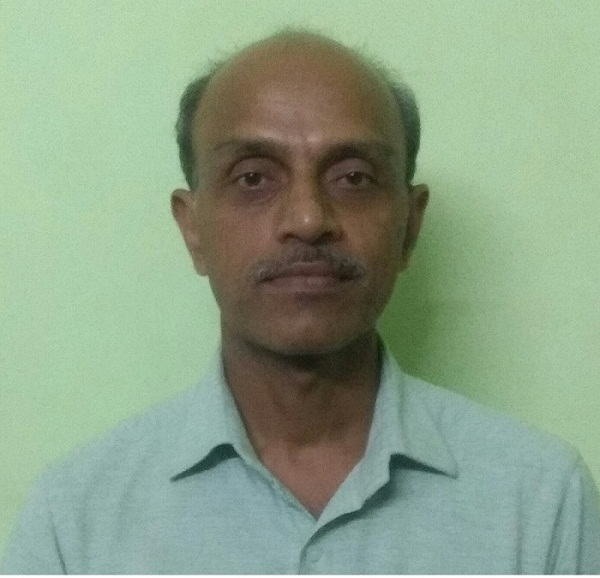
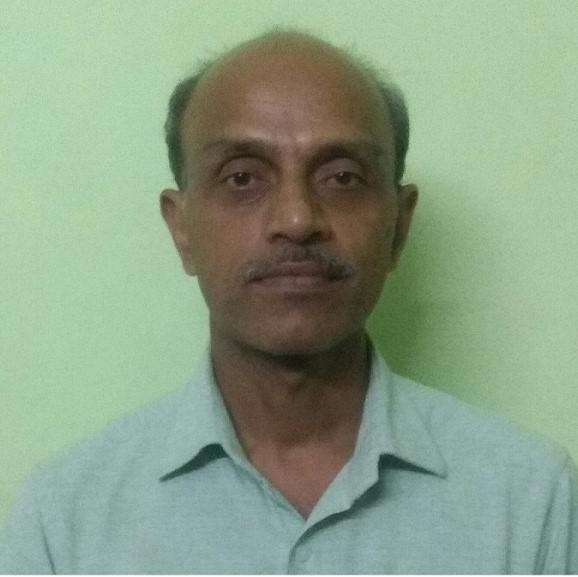
add advisors

diff --git a/index.html b/index.html
@@ -432,13 +432,83 @@
       </section>
       <!-- End Portfolio Section -->
 
-      <!-- ======= Team Section ======= -->
+      <!-- ======= Advisors Section ======= -->
       <section id="team" class="team">
         <div class="container">
           <div class="section-title">
             <!-- <h2>Team</h2> -->
+            <h3>Our <span>Advisory Committee</span></h3>
+            <!-- <p>Take a look at ISTE GCEK Executive Commitee 2020-21.</p> -->
+          </div>
+
+          <div class="members">
+            <div class="member" data-aos="zoom-in">
+              <div class="member-img">
+                <img
+                  src="assets/img/team/advisors/jayee.jpg"
+                  class="img-fluid"
+                  alt=""
+                />
+                <!-- <div class="social">
+                  <a href="https://www.linkedin.com/in/mehnaz-p-p-60492b1a9/"
+                    ><i class="bi bi-linkedin"></i
+                  ></a>
+                </div> -->
+              </div>
+              <div class="member-info">
+                <h4>Prof. Jayee K Varghese</h4>
+                <span>President</span>
+              </div>
+            </div>
+
+            <div class="member" data-aos="zoom-in">
+              <div class="member-img">
+                <img
+                  src="assets/img/team/advisors/asokan.jpg"
+                  class="img-fluid"
+                  alt=""
+                />
+                <!-- <div class="social">
+                  <a href="https://www.linkedin.com/in/mehnaz-p-p-60492b1a9/"
+                    ><i class="bi bi-linkedin"></i
+                  ></a>
+                </div> -->
+              </div>
+              <div class="member-info">
+                <h4>Prof. Asokan O V</h4>
+                <span>Secretary</span>
+              </div>
+            </div>
+
+            <div class="member" data-aos="zoom-in">
+              <div class="member-img">
+                <img
+                  src="assets/img/team/advisors/deepu.jpg"
+                  class="img-fluid"
+                  alt=""
+                />
+                <!-- <div class="social">
+                  <a href="https://www.linkedin.com/in/mehnaz-p-p-60492b1a9/"
+                    ><i class="bi bi-linkedin"></i
+                  ></a>
+                </div> -->
+              </div>
+              <div class="member-info">
+                <h4>Dr. Deepu SP</h4>
+                <span>Staff Advisor</span>
+              </div>
+            </div>
+          </div>
+        </div>
+      </section>
+
+      <!-- ======= Team Section ======= -->
+      <section id="" class="team">
+        <div class="container">
+          <div class="section-title">
+            <!-- <h2>Team</h2> -->
             <h3>Our <span>Board Members</span></h3>
-            <p>Take a look at ISTE GCEK Executive Commitee 2020-21.</p>
+            <!-- <p>Take a look at ISTE GCEK Executive Commitee 2020-21.</p> -->
           </div>
 
           <div class="members">
@@ -488,8 +558,7 @@
                   alt=""
                 />
                 <div class="social">
-                  <a
-                    href="https://www.linkedin.com/in/nithin-r-8730a716a/"
+                  <a href="https://www.linkedin.com/in/nithin-r-8730a716a/"
                     ><i class="bi bi-linkedin"></i
                   ></a>
                 </div>
@@ -519,8 +588,7 @@
               <div class="member-img">
                 <img src="assets/img/team/elbin.jpg" class="img-fluid" alt="" />
                 <div class="social">
-                  <a
-                    href="https://www.linkedin.com/in/elbin-manoj-9389111a9/"
+                  <a href="https://www.linkedin.com/in/elbin-manoj-9389111a9/"
                     ><i class="bi bi-linkedin"></i
                   ></a>
                 </div>
@@ -539,8 +607,7 @@
                   alt=""
                 />
                 <div class="social">
-                  <a
-                    href="https://www.linkedin.com/in/arshaddanish/"
+                  <a href="https://www.linkedin.com/in/arshaddanish/"
                     ><i class="bi bi-linkedin"></i
                   ></a>
                 </div>
@@ -559,8 +626,7 @@
                   alt=""
                 />
                 <div class="social">
-                  <a
-                    href="https://www.linkedin.com/in/jishnu-k-07bb09194/"
+                  <a href="https://www.linkedin.com/in/jishnu-k-07bb09194/"
                     ><i class="bi bi-linkedin"></i
                   ></a>
                 </div>
